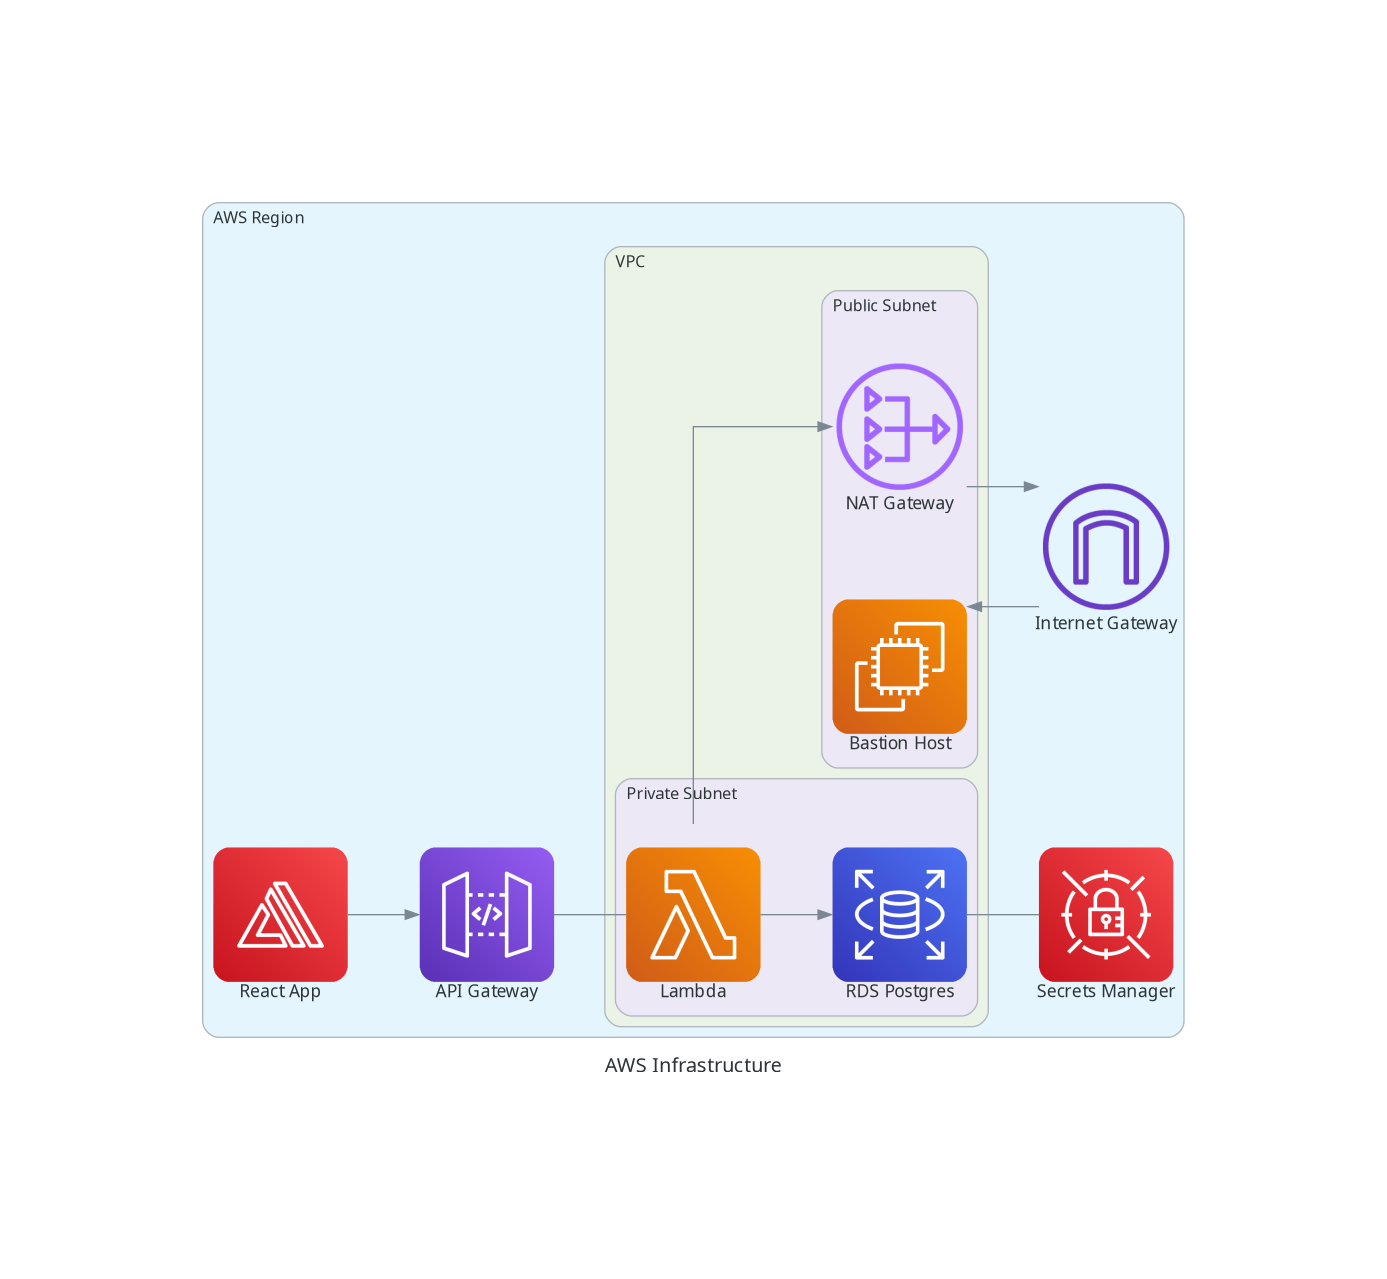
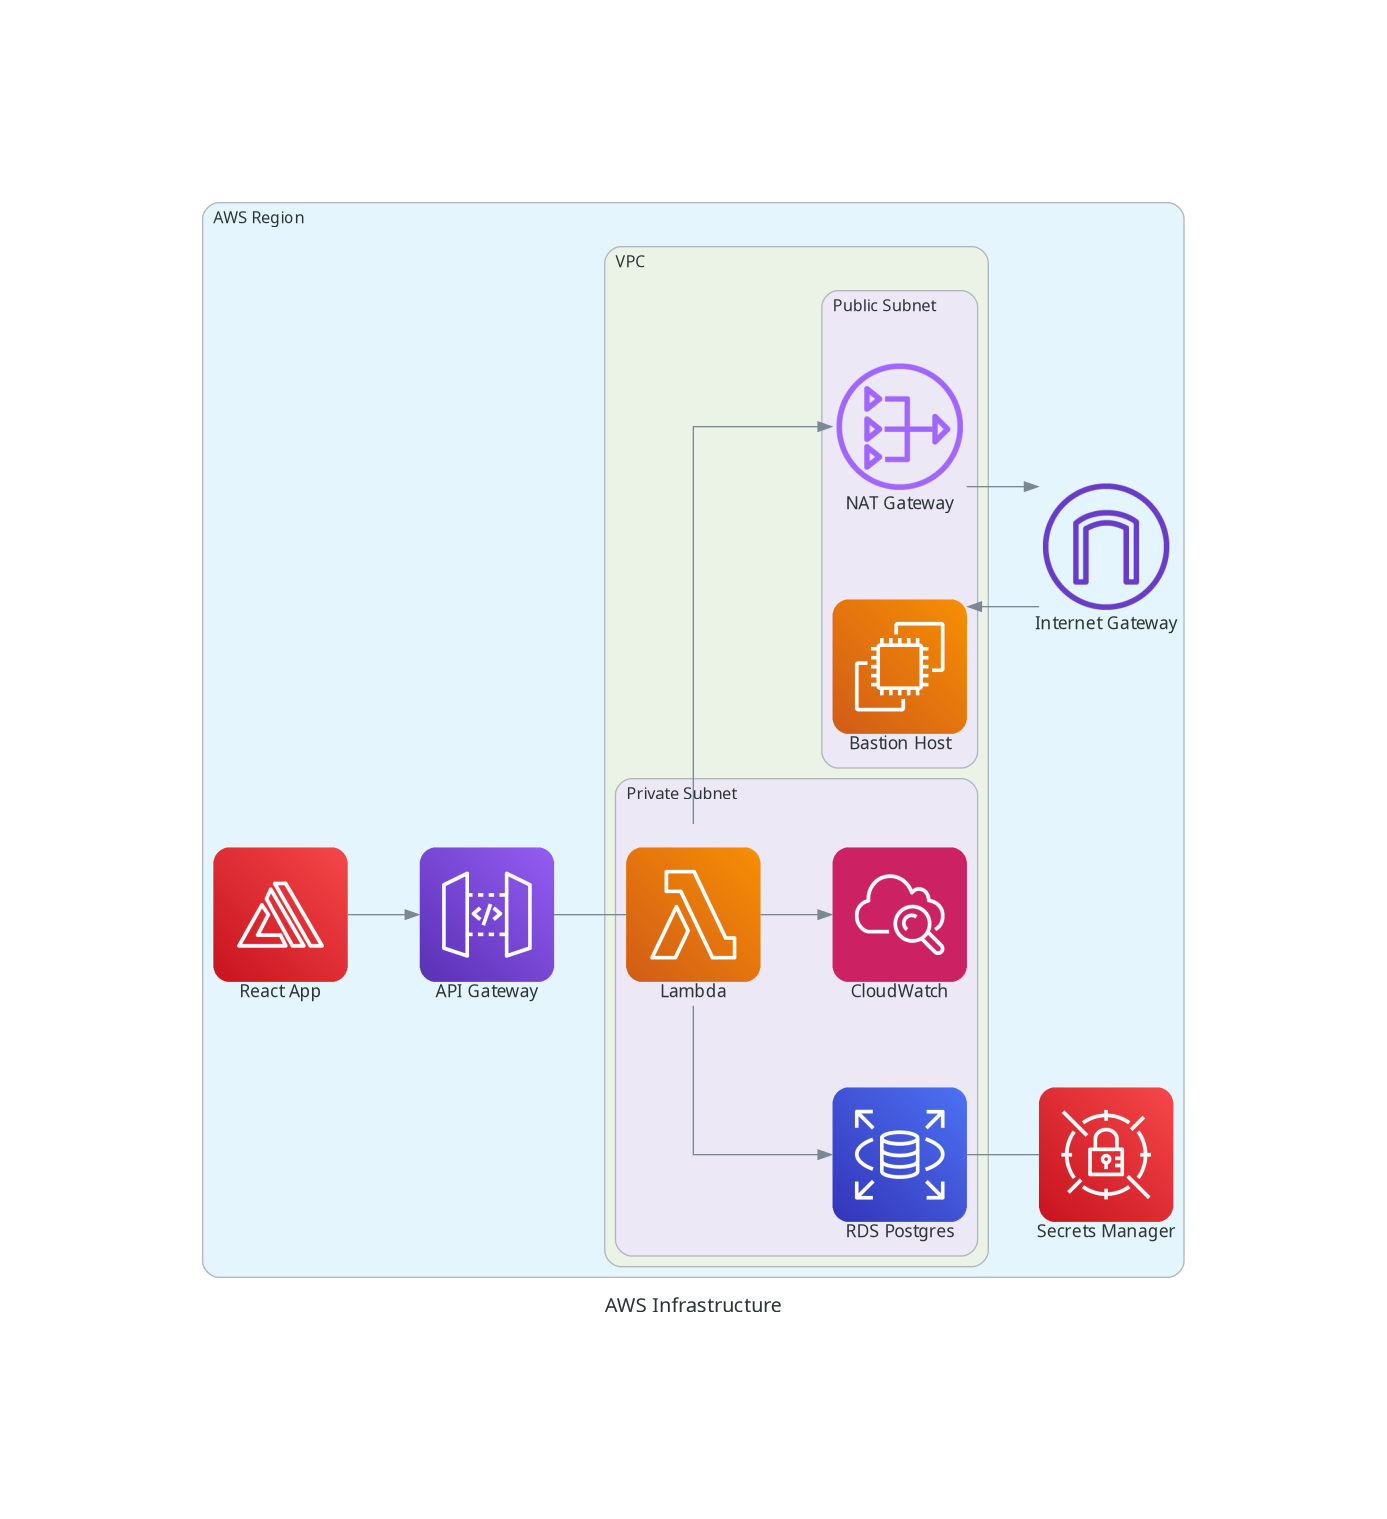
Updated diagram

Changed region(s): [[0.124, 0.122, 0.8681, 0.8843], [0.7441, 0.3049, 0.8681, 0.4879]]

diff --git a/tools/dac/main.py b/tools/dac/main.py
@@ -5,11 +5,11 @@ from diagrams.aws.network import VPC, NATGateway, InternetGateway, APIGateway
 from diagrams.aws.security import SecretsManager
 from diagrams.aws.mobile import Amplify
 from diagrams.onprem.network import Internet
+from diagrams.aws.management import Cloudwatch
 
 with Diagram("AWS Infrastructure", show=False):
     with Cluster("AWS Region"):
         with Cluster("VPC"):
-
             with Cluster("Public Subnet"):
                 bastion_host = EC2("Bastion Host")
                 nat_gateway = NATGateway("NAT Gateway")
@@ -19,6 +19,9 @@ with Diagram("AWS Infrastructure", show=False):
                 rds = RDS("RDS Postgres")
 
                 lambda_func >> rds
+
+                cloudwatch_logs = Cloudwatch("CloudWatch")
+                lambda_func >> cloudwatch_logs
 
             lambda_func >> nat_gateway
 
